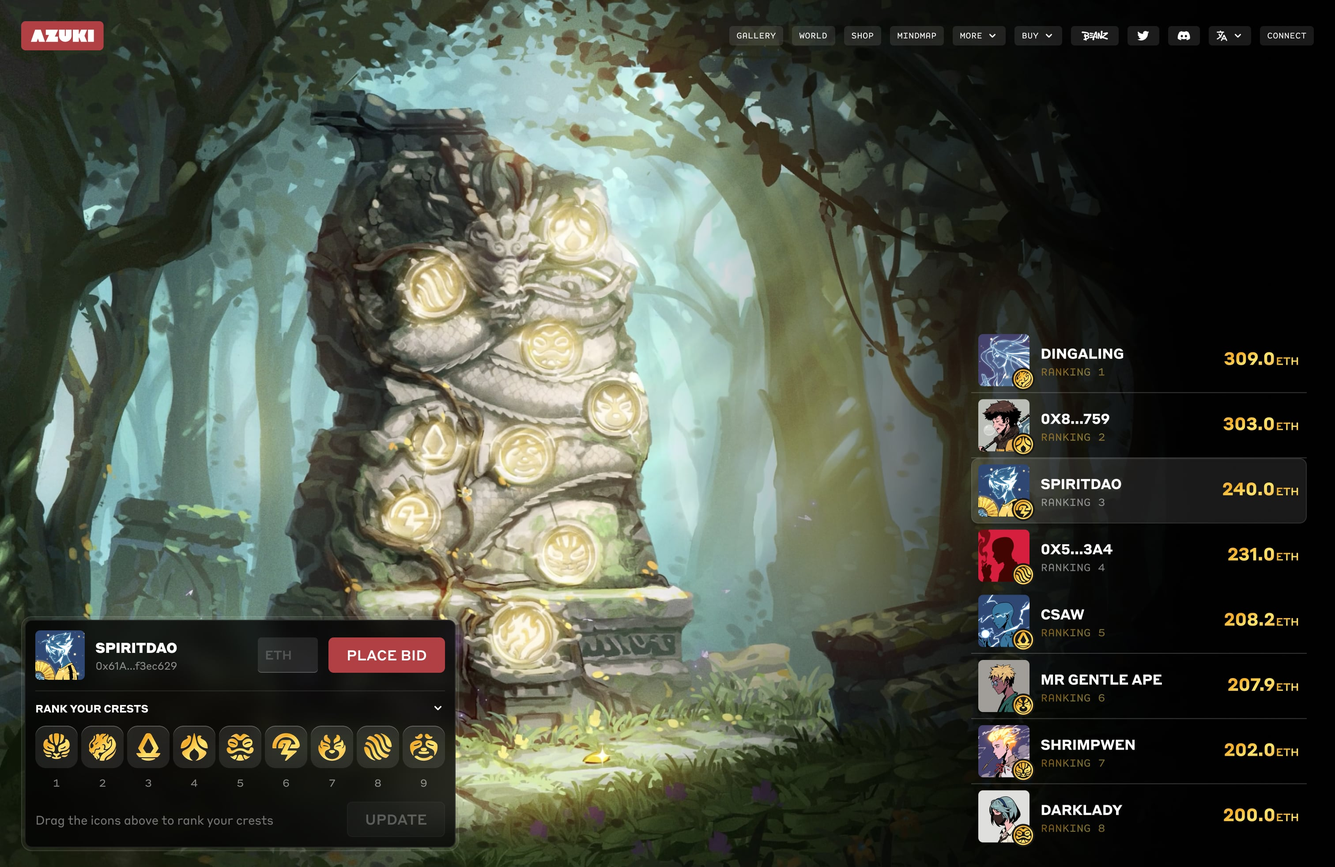
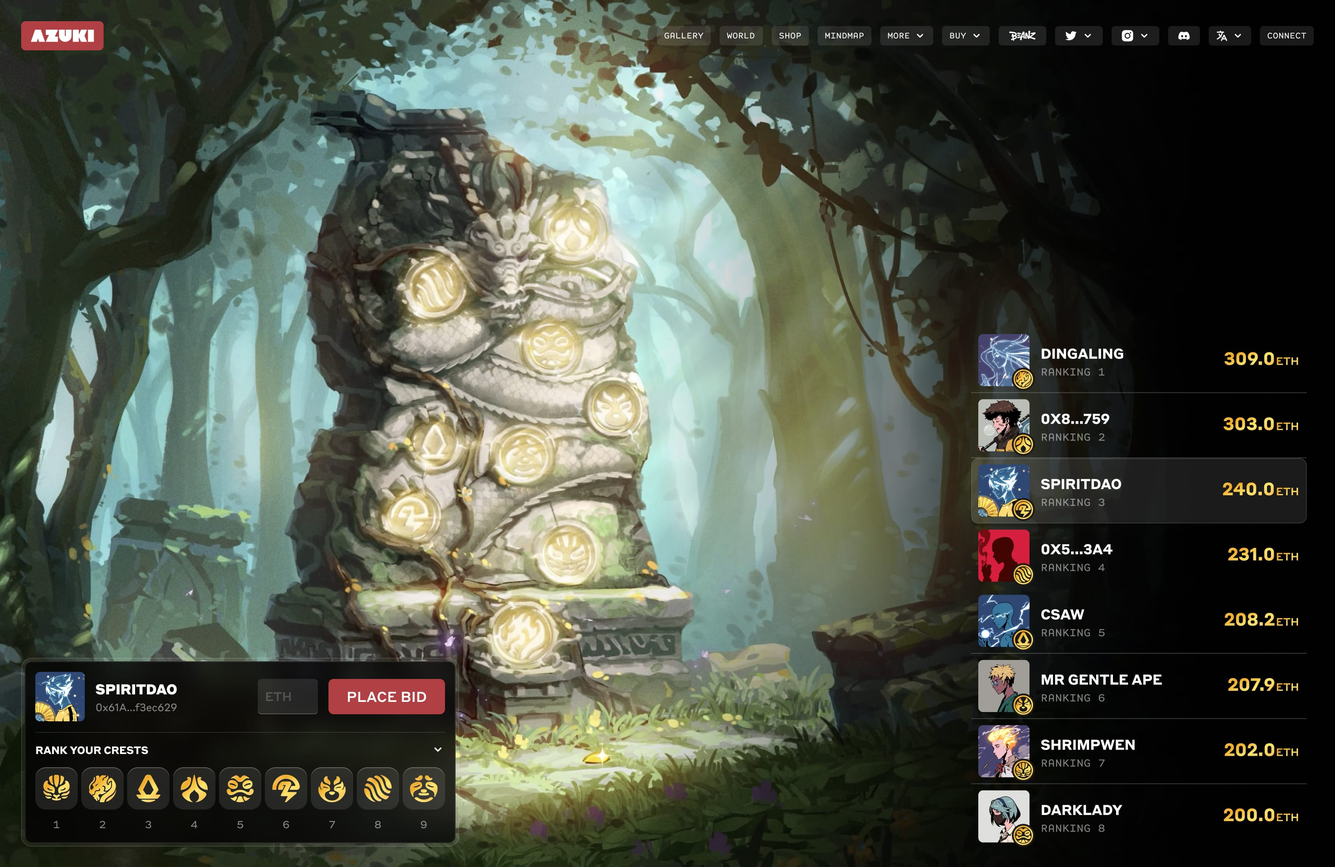
update graphics

diff --git a/pages/azuki.js b/pages/azuki.js
@@ -14,9 +14,15 @@ import Divider from "../components/projects/Divider";
 // images
 import BeanzCarousel from "../public/work/azuki/beanz-carousel.jpg";
 import LoreMain from "../public/work/azuki/lore-main.jpg";
+import LoreChapterOne from "../public/work/azuki/lore-chapter-one.jpg";
 import cp_main from "../public/work/azuki/cp-main.jpg";
 import auction_main from "../public/work/azuki/auction-main.jpg";
+import multiwallet from "../public/work/azuki/multiwallet.jpg";
 import ambushLanding from "../public/work/azuki/ambush-landing.jpg";
+import auctionOrder from "../public/work/azuki/auction-order.jpg";
+import equipBeanz from "../public/work/azuki/equip-beanz.jpg";
+import equipExamples from "../public/work/azuki/equip-examples.png";
+import equipMain from "../public/work/azuki/equip-main.jpg";
 
 import Link from "next/link";
 
@@ -41,23 +47,23 @@ export default function Brain() {
         <ProjectBody col={2}>
           Azuki is a web3 brand pioneering the integration of blockchain
           identity with digital art, fashion, and physical collectibles. Since
-          launch, they have worked with established brands like{" "}
+          launch, they have worked with brands like{" "}
           <TextLink link="https://www.ambushdesign.com/en-us/">
             Ambush Streetwear
           </TextLink>
-          ,{" "}
+          ,
           <TextLink link="https://twitter.com/AzukiOfficial/status/1512886138670759941?s=20&t=fP4dEVgYoaYo7q-xJQmN4g">
             Epik High
           </TextLink>
-          ,{" "}
+          ,
           <TextLink link="https://twitter.com/Ledger/status/1519179535325052933?s=20&t=23FSw7lnvc53d_Fjxc0ZOw">
-            NASA , and{" "}
+            NASA
           </TextLink>
+          , and
           <TextLink link="https://www.redbullracing.com/int-en">
             RedBull Racing
           </TextLink>
-          . As a designer, I work on all things product related, focused on both
-          partnerships and core experiences.
+          . As a product designer, I scale core digital product experiences.
         </ProjectBody>
         <ProjectDetails
           role={["product designer"]}
@@ -82,17 +88,20 @@ export default function Brain() {
           {`Shrimpwen's Profile`}
         </LinkCard>
         <ProjectMedia pt pr pl dark src={cp_main}></ProjectMedia>
-        <ProjectMedia
-          src={"/work/azuki/cp-emblems.mp4"}
-          isVideo
-        >{`On-chain emblems baked with dimensional hover states and card-like effects `}</ProjectMedia>
-        <ProjectMedia src={"/work/azuki/cp-badges.mp4"} isVideo>
-          {`Dynamic badge previews, a low-commitment way to browse an individual's community badges`}
-        </ProjectMedia>
+        <ProjectMedia src={"/work/azuki/cp-emblems.mp4"} isVideo></ProjectMedia>
+        <ProjectMedia src={"/work/azuki/cp-badges.mp4"} isVideo></ProjectMedia>
         <ProjectMedia
           src={"/work/azuki/cp-highlights.mp4"}
           isVideo
         ></ProjectMedia>
+        {/* <ProjectMedia dark src={multiwallet}></ProjectMedia> */}
+        <ProjectBody title="Token Equipping" col={1}>
+          Coming from the alley, Beans serve as the sidekick all Azukis want and
+          need. We introduced an equpping system that allows users to unite both
+          into one.
+        </ProjectBody>
+        <ProjectMedia src={equipBeanz}></ProjectMedia>
+        <ProjectMedia pAll src={equipExamples}></ProjectMedia>
         <Divider />
         <Spacer></Spacer>
         <ProjectBody title="Ambush x Azuki Collab" col={1}>
@@ -110,7 +119,7 @@ export default function Brain() {
         >
           Hypebeast
         </LinkCard>
-        <ProjectMedia pAll dark src={ambushLanding} />
+        <ProjectMedia dark src={ambushLanding} />
         <Divider />
         <ProjectBody title="Proof of Skate Auction" col={1}>
           Azuki recently made history by setting the record for the most
@@ -123,8 +132,8 @@ export default function Brain() {
         >
           Hypemoon (Hypebeast)
         </LinkCard>
-        {/* <ProjectMedia pAll src={auction_main} /> */}
-        <ProjectMedia isVideo src={"/work/azuki/auction-ranking.mp4"} />
+        <ProjectMedia pAll src={auction_main} />
+        <ProjectMedia src={auctionOrder} />
         <Divider />
         <ProjectBody title="Azuki Lore" col={1}>
           A core part of the Azuki brand is storytelling. I helped design the
@@ -135,20 +144,8 @@ export default function Brain() {
         <LinkCard col={1} link="https://azuki.com/world">
           Lore Chapters
         </LinkCard>
-        <ProjectMedia pAll src={LoreMain}></ProjectMedia>
-        <Divider />
-        <ProjectBody title="Token Equipping" col={1}>
-          The Beanz NFT collection was my first project, which consisted of
-          designing the Beanz storytelling page as well as the Beanz pairing
-          experience.
-        </ProjectBody>
-        <LinkCard col={1} link="https://www.azuki.com/beanz">
-          Beanz Website
-        </LinkCard>
-        <ProjectMedia
-          src={"/work/azuki/beanz-pairing.mp4"}
-          isVideo
-        ></ProjectMedia>
+        <ProjectMedia dark src={LoreMain}></ProjectMedia>
+        <ProjectMedia dark src={LoreChapterOne}></ProjectMedia>
       </GridContainer>
     </motion.main>
   );

diff --git a/components/projects/ProjectMedia.js b/components/projects/ProjectMedia.js
@@ -14,7 +14,7 @@ export default function ProjectMedia(props) {
 
   const bgColors = {
     skiff: ["bg-gray-200", "bg-[#4F4C59]"],
-    azuki: ["azuki-red", "bg-slate-800"],
+    azuki: ["bg-[#EBEBE6]", "bg-gray-800"],
     metalink: "bg-gray-700",
     experiments: "bg-white/[.15]",
   };
